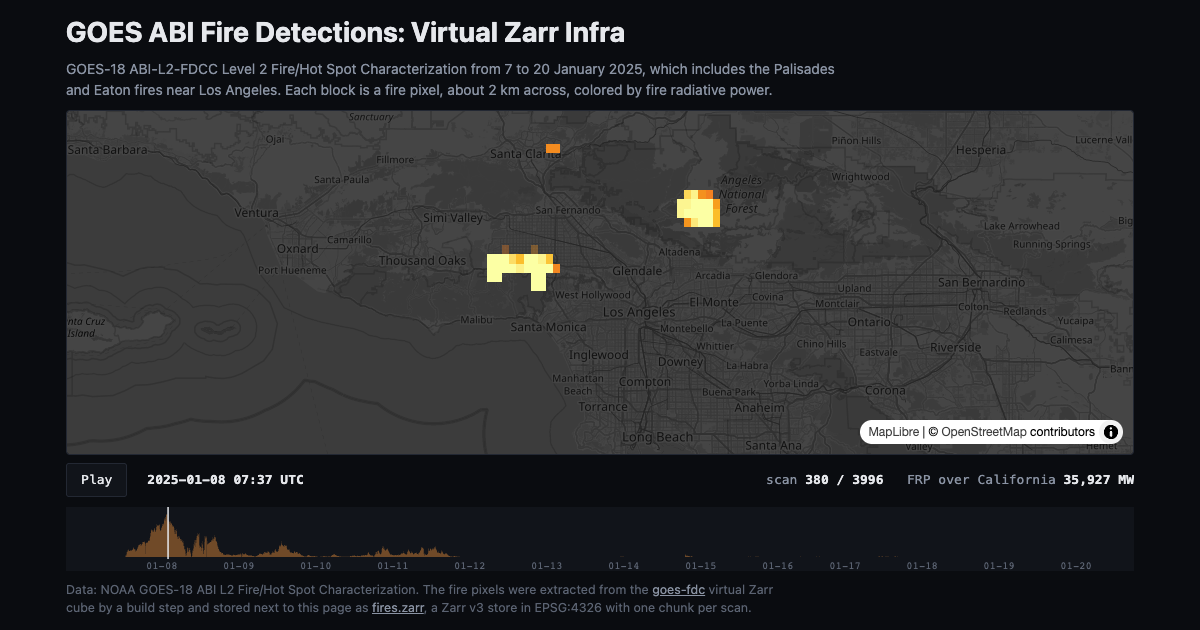
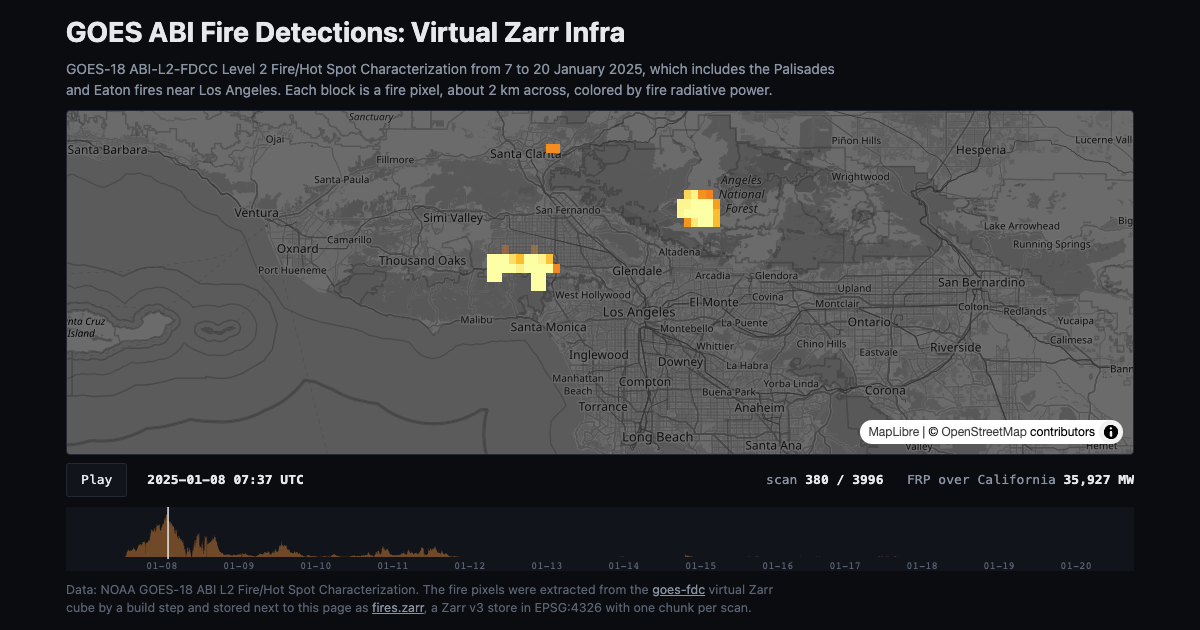
fix(site): make the basemap brighter on typical monitors
The basemap used grey levels 49 to 69 of 255. Many external monitors
show these levels as near black. A Mac display shows them correctly.

- Set raster-brightness-max to 0.45. The basemap now uses levels 72 to 107.
- Set raster-contrast to 0. The land, water, and roads now show more
  difference.
- Capture og-preview.png again with the new basemap.

diff --git a/site/index.html b/site/index.html
@@ -118,7 +118,7 @@ const map = new maplibregl.Map({
     layers: [
       // Grey and dim the OSM tiles so that the fire pixels stand out.
       { id: "basemap", type: "raster", source: "basemap",
-        paint: { "raster-saturation": -1, "raster-contrast": -0.2, "raster-brightness-max": 0.32 } },
+        paint: { "raster-saturation": -1, "raster-contrast": 0, "raster-brightness-max": 0.45 } },
       // The area of the store. GOES-18 scans all of it every five minutes.
       { id: "extent", type: "line", source: "extent", paint: { "line-color": "#ff9a3c", "line-opacity": 0.5, "line-dasharray": [2, 2] } },
       { id: "fire", type: "raster", source: "fire", paint: { "raster-resampling": "nearest", "raster-fade-duration": 0 } },
